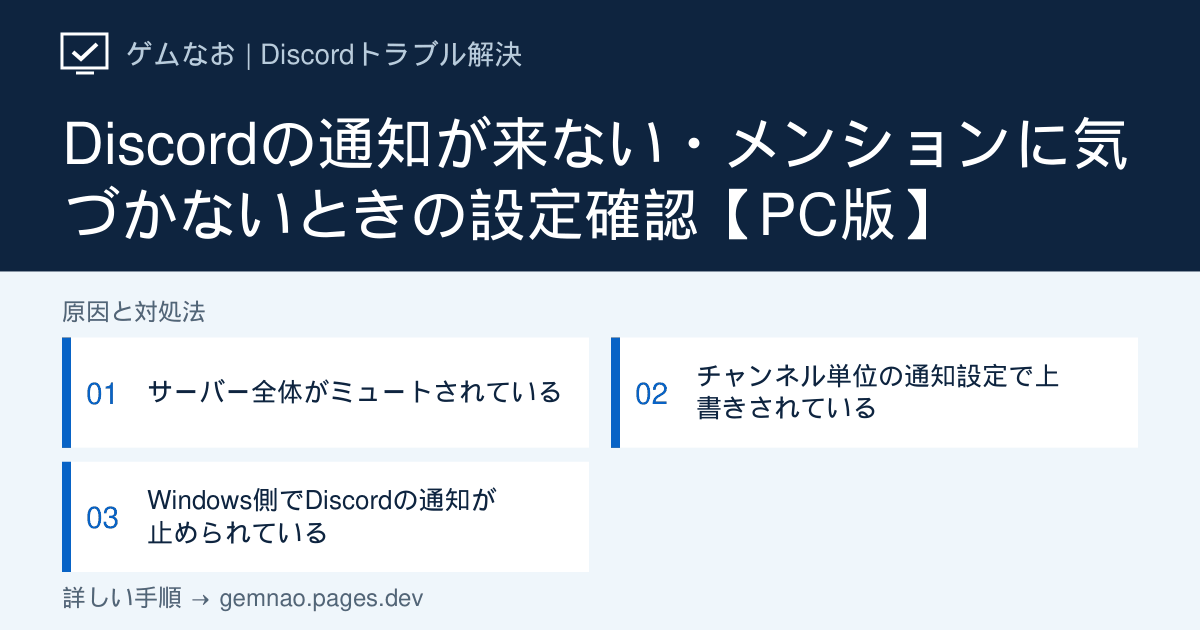
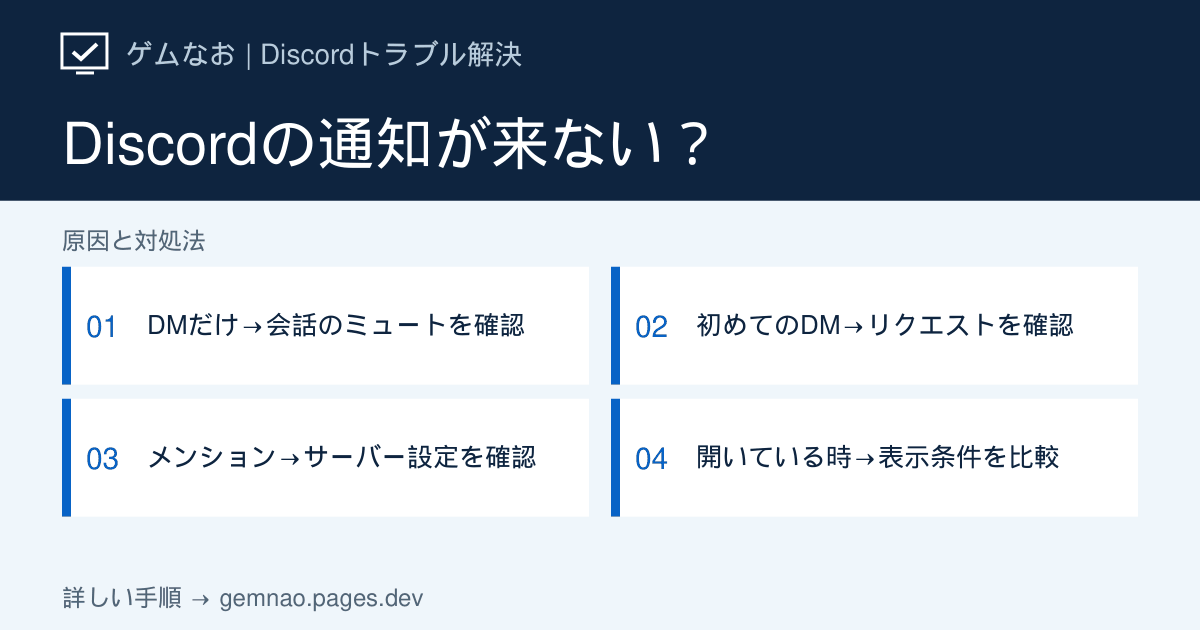
Improve Discord notification troubleshooting by message type

diff --git a/lib/discord-p0-articles.ts b/lib/discord-p0-articles.ts
@@ -723,80 +723,177 @@ export const discordP0Articles: DiscordArticle[] = [
     slug: 'notifications-not-working',
     category: 'launch',
     title:
-      'Discordの通知が来ない・メンションに気づかないときの設定確認【PC版】',
+      'Discordの通知が来ない原因と直し方｜DM・メンション・開いている時で切り分け【PC版】',
     shortTitle: '通知が来ない',
     seoTitle:
-      'Discordの通知が来ない・メンションに気づかないときの設定確認【PC版】',
+      'Discordの通知が来ない原因と直し方｜DMだけ・開いている時だけ【PC版】',
     metaDescription:
-      'Discordの通知が来ない、メンション通知が表示されない場合の確認方法。サーバーのミュート、通知レベル、チャンネルごとの上書き、Windows通知を順に確認します。',
+      'DiscordのDMだけ通知が来ない、メンションだけ出ない、アプリを開いている間だけポップアップが出ない場合を判定表で切り分け。DMのミュート、リクエスト、取り込み中・配信モード、Windowsのバナー設定を確認。',
     symptom:
-      'Discordにメッセージやメンションは届いているのにデスクトップ通知が出ない、または特定のサーバー・チャンネルだけ通知されない場合の手順です。',
-    target: 'Windows版 Discordデスクトップアプリ',
+      'DMは会話欄に届いているのに通知が出ない、知らない相手のDMだけ見つからない、サーバーのメンションだけ来ない、Discordを開いている間だけ通知が表示されない場合の手順です。',
+    target: 'Windows 11／10版 Discordデスクトップアプリの画面右下の通知',
     conclusion:
-      '特定のサーバーだけ通知が来ない場合は、そのサーバーのミュート、通知レベル、チャンネルごとの通知上書きを順に確認します。全体で来ない場合はWindowsの通知設定も確認してください。',
+      '最初に「メッセージが届かない」のか「届くが画面に通知が出ない」のかを分けます。DMだけなら会話のミュート・無視・メッセージリクエスト、メンションだけならサーバーとチャンネルの設定を確認。開いている間だけ出ないなら、同じ会話を表示中と別の画面を表示中で比較し、取り込み中・配信モード・Windows通知を確認します。',
     quickFixes: [
-      '対象サーバーがミュートされていないか確認する',
-      'サーバーの通知レベルとチャンネルごとの通知上書きを確認する',
-      'WindowsでDiscordの通知が許可されているか確認する',
+      '知人にテスト用DMを送ってもらい、会話には届くか・画面に通知が出るかを別々に確認する',
+      'Discordを開いた状態で別の会話を表示し、次に最小化して、同じ相手からのDMで結果を比べる',
+      'DM／サーバーのメンション／通常投稿のうち、通知が欠ける種類から下の表で手順を選ぶ',
+    ],
+    diagnosisTitle: 'どの通知が、いつ出ない？ 種類・発生条件別の判定表',
+    diagnosisIntro:
+      '知人に実際のDMやメンションを送ってもらい、Discordの会話欄に届いたか、デスクトップに通知が出たかを分けて記録します。自分が送ったメッセージでは確認できません。',
+    showStatusCheck: false,
+    diagnosis: [
+      {
+        symptom: '特定の相手・グループDMだけ、メッセージは届くが通知なし',
+        check: 'そのDMを右クリックし「通知をミュート」の状態を確認。相手を「無視」していないか',
+        causeIndex: 1,
+      },
+      {
+        symptom: '知らない相手からのDMが会話一覧に見当たらない',
+        check: 'ホームの「メッセージリクエスト」と「スパム」に入っていないか',
+        causeIndex: 2,
+      },
+      {
+        symptom: 'DMは通知されるが、特定サーバー・チャンネルの投稿だけ出ない',
+        check: 'サーバーの通知レベルと、チャンネル／カテゴリの通知上書きを比較',
+        causeIndex: 3,
+      },
+      {
+        symptom: '@メンションだけ届かない／ロール・@everyoneだけ違う',
+        check: '対象チャンネルがミュートか。ロール・@everyone抑制がオンか',
+        causeIndex: 3,
+      },
+      {
+        symptom: 'Discordを開いて同じ会話を見ている時だけ通知が出ない',
+        check: '別の会話を表示中と、Discordを最小化した時にも同じDMで比べる',
+        causeIndex: 4,
+      },
+      {
+        symptom: 'Discordの起動中だけ、DMもサーバーも通知が出ない',
+        check: 'ステータスが「取り込み中」か、配信モードの「通知の無効化」がオンか',
+        causeIndex: 4,
+      },
+      {
+        symptom: '通知音・未読はあるのに右下の通知だけ出ない／ゲーム中だけ出ない',
+        check: 'Discord内の通知、WindowsのDiscord通知バナー、「応答不可」の自動設定を確認',
+        causeIndex: 5,
+      },
     ],
     causes: [
       {
-        title: 'サーバー全体がミュートされている',
+        title: 'DMだけ届かないなら、会話ごとのミュートと「無視」を調べる',
         description:
-          'サーバーをミュートすると、そのサーバー内のチャンネル通知がまとめて抑制されます。',
+          'サーバー通知設定を変更しても、特定の人・グループDMの通知には直接効きません。まず「会話に届くがポップアップがない」状態か確認します。',
         actions: [
-          '対象サーバー名を右クリックする',
-          '「通知設定」を開く',
-          'サーバー全体のミュート状態を確認する',
-          '必要な通知レベルへ変更してテストする',
+          'ホームのDM一覧から、通知されない会話を開く。新しいメッセージが実際に届いているか確認する',
+          'その会話名を右クリックし、「通知をミュート」の状態を確認する。グループDMも個別に設定されるため、対象の会話だけ見直す',
+          '特定のユーザーだけならプロフィールや「ユーザー設定」→「コンテンツ＆ソーシャル」で「無視したアカウント」に含まれていないか確認する。必要な相手なら無視を解除して試す',
+          'Discordの通知音がほかでは鳴るのにDMだけ鳴らない場合も、同じ会話のミュートとDiscordの「通知」内の音設定を区別して見る',
+          '会話を表示したままのテストだけで判断せず、別の会話へ移ってから同じ相手にもう一度DMを送ってもらう',
         ],
+        note: '知人からのDMを無視・ミュートしている状態なら、Windows全体の通知許可を切り替えてもその会話の問題は解消しません。',
       },
       {
-        title: 'チャンネル単位の通知設定で上書きされている',
+        title: '初めての相手のDMが見当たらないなら、リクエストを探す',
         description:
-          'サーバー設定が有効でも、個別チャンネルが「通知なし」やミュートに上書きされている場合があります。',
+          'Discord公式によると、フレンド以外からのDMは通常のDM一覧とは別のメッセージリクエストやスパムへ振り分けられる場合があります。',
         actions: [
-          '対象サーバーの通知設定を開く',
-          '通知設定の上書き一覧を確認する',
-          '該当チャンネルの設定を確認する',
-          '「すべて」または「メンション」など必要な設定へ変更する',
+          'Discordの左上「ホーム」を開き、DM付近に「メッセージリクエスト」が表示されていないか確認する。保留中のリクエストがある時だけタブが出る場合がある',
+          '「メッセージリクエスト」内の「スパム」も確認し、相手のアカウントを見てから承認・返信するか判断する',
+          'リクエストになく、相手側でも送れていない場合は「ユーザー設定」→「コンテンツ＆ソーシャル」のDM許可設定や、相手との共通サーバー側のプライバシー設定を確認する',
+          '既に会話内にメッセージが届いているなら、リクエストではなく原因1または原因4へ進む',
         ],
+        note: 'リクエストのバッジと、Windows画面右下のポップアップ通知は別です。見知らぬ相手からのDMを受けるためにプライバシー設定を無理に緩める必要はありません。',
       },
       {
-        title: 'Windows側でDiscordの通知が止められている',
+        title: 'サーバー投稿・メンションだけなら、通知の種類を見比べる',
         description:
-          'すべてのサーバーで通知が出ない場合は、OS側の通知許可や集中モードを切り分けます。',
+          'Discord公式の通知設定では、サーバー、カテゴリ／チャンネルの通知上書き、ロール・@everyoneの抑制を別々に指定できます。通常投稿とメンションでは結果が変わります。',
         actions: [
-          'Windowsの「設定」から「システム」→「通知」を開く',
-          'Discordの通知が許可されているか確認する',
-          '集中モードまたは通知を抑制する設定が有効でないか確認する',
-          'Discordを完全終了して起動し直し、通知をテストする',
+          '対象サーバー名を右クリック→「通知設定」を開き、サーバー全体の通知オフと通知レベルを確認する。通常投稿を受けたい場合は「メンションのみ」になっていないか見る',
+          '同じ画面の「通知設定の上書き」で該当チャンネルとカテゴリを確認する。「メンション」は通常投稿を通知しない設定、「なし」や「ミュート」はさらに通知を抑える設定として区別する',
+          '@ロールと@everyone／@hereが来ない場合は、サーバーの各メンションを抑制する設定がオンか確認する。通常投稿・個人宛てメンションとは別々にテストする',
+          '変更後にほかのユーザーから対象チャンネルへ通常投稿と、自分宛ての実際の@メンションを送ってもらい、どちらが表示されるか比べる',
         ],
+        note: 'Discord公式はサーバー全体のミュート時も@everyoneメンションには例外があると説明しています。「全通知が必ず消える」と決めつけず、通知の種類で比較してください。',
+      },
+      {
+        title: 'Discordを開いている時だけなら、表示中の会話と状態を比較',
+        description:
+          '同じ会話を画面に表示中と、別の画面を表示中を比べます。アプリを開いていることだけで「故障」と判断せず、取り込み中・配信モードによる抑制も分けます。',
+        actions: [
+          'ステータスを「オンライン」にして、知人にDMを送ってもらう。対象DMを表示したままの時と、別のサーバー・会話へ移った時に、画面への通知と未読の付き方を比べる',
+          '次にDiscordを最小化する（タスクトレイへ格納されても、完全終了はしない）。同じ相手にもう一度送ってもらい、最小化中にも通知が出ないか確認する',
+          '別の会話や最小化中も出ない場合、左下の自分のアイコンから「取り込み中」が選ばれていないか確認する。Discord公式は取り込み中にデスクトップ通知をミュートすると案内している',
+          'OBSなどを起動中なら、Discordの歯車→「配信モード」で有効状態と「通知の無効化」を確認する。現在の値を控えてから一時的に切り替え、もう一度同じDMで比較する',
+          '同じ会話を表示中だけポップアップがないが、別会話や最小化中は出る場合は、その表示条件を記録する。アプリ全体・Windows全体の故障として再インストールへ進まない',
+        ],
+        note: 'ここで比較しているのはWindowsデスクトップ版です。モバイル版の「画面を開いている間は通知しない」という公式説明を、そのままPC版の仕様として扱いません。',
+      },
+      {
+        title: '全部の通知が出ない・ゲーム中だけ出ないなら、DiscordとWindowsを確認',
+        description:
+          '通知のバッジ・音・画面右下のバナーを区別します。Windowsにはアプリ別の通知許可とバナー表示、「応答不可」があります。',
+        actions: [
+          'Discord左下の歯車→「通知」を開き、デスクトップ通知が無効になっていないか確認する。音だけが出ない場合はメッセージ音の設定も別に見る',
+          'Windows 11は「設定」→「システム」→「通知」を開き、全体と「アプリやその他の送信者」にDiscordがあれば通知・「通知バナーを表示する」がオンか確認する',
+          'Windows 11の「応答不可」と自動でオンになる条件を確認する。ゲームの全画面中だけ通知が隠れるなら、通常のデスクトップ表示中と比較する。Windows 10は「集中モード」など対応する表示抑制の項目を確認する',
+          'Windowsキー＋Nで通知センターを開き、Discordの通知が残っているか確認する。センターにはあるのにバナーだけない場合は、Windowsの表示方法から見直す',
+          'Discord自体が起動していない場合は起動した状態でテストする。通知音・未読も消えるならDiscord内の設定に戻り、音や未読はあるのに右下だけ出ないならWindows側の表示条件を調べる',
+        ],
+        note: 'Discordの表示方法は配布形態やWindowsの設定によって異なります。アプリ別一覧にDiscordが出ない場合は、まずDiscord内の設定・ステータスを確認してください。',
       },
     ],
     ifNotFixed:
-      'DiscordとWindowsの設定が正しい場合は、別のサーバー・DMでも通知されないか確認してください。発生する通知種別、サーバー、Windowsの通知設定を記録してDiscordサポートへ連絡します。',
+      'DiscordとWindowsの設定を確認しても再現する場合は、DM／通常投稿／メンションの種類、相手またはサーバー、Discordのウィンドウが表示中か最小化中か、通知音・未読・右下のバナーの結果を記録してください。Discordアプリを更新・再起動して同じ条件で再試験し、結果を添えてDiscordサポートへ相談します。',
     faqs: [
       {
-        question: '特定のサーバーだけ通知が来ません',
+        question: 'DMだけ通知が来ないのに、サーバーの通知設定を変更すべきですか？',
         answer:
-          'そのサーバーのミュート状態、通知レベル、チャンネルごとの通知上書きを順に確認してください。',
+          'DMの会話に届いているなら、まずその会話のミュートと相手を「無視」していないか確認してください。初めての相手で会話にも表示されないなら、ホームの「メッセージリクエスト」や「スパム」を先に確認します。',
       },
       {
-        question: 'メンションだけ通知を受ける設定はできますか？',
+        question: 'サーバーをミュートすると、@everyoneも必ず消えますか？',
         answer:
-          'Discordのサーバー通知設定では、メンションのみを受ける通知レベルを選べます。チャンネル単位の上書きもあわせて確認してください。',
+          'Discord公式はサーバーのミュート中でも@everyoneの通知を受ける例外を案内しています。@everyoneと@hereを抑制する設定、ロールメンションを抑制する設定、チャンネル単位のミュートを分けて確認してください。',
       },
       {
         question: 'Discordを開いている間だけ通知が出ません',
         answer:
-          '通知の表示条件やWindows側の通知設定が影響する場合があります。DMとサーバー通知を分けてテストし、どの状態で出ないか切り分けてください。',
+          '同じDMを表示中、別の会話を表示中、Discordを最小化中の3条件で知人のDMを比べてください。別の会話でも出ないなら「取り込み中」と配信モードの通知抑制を確認し、未読と音はあるのに右下だけ出なければWindowsのバナー設定を見ます。',
+      },
+      {
+        question: 'DMの内容は表示されないが未読のバッジだけ付きます',
+        answer:
+          '知らない相手からなら、ホームの「メッセージリクエスト」内に保留中のDMがないか確認してください。Discord公式によると、リクエストは通常のDM一覧とは別に表示され、アプリには通知バッジが付く場合があります。',
       },
     ],
-    sources: [official('215253258', '通知設定101')],
+    sources: [
+      official('215253258', 'サーバー・チャンネルの通知設定101'),
+      official('223657667', 'グループDMの通知をミュートする方法'),
+      official('227779547', '取り込み中のステータスと通知'),
+      official('218485407', '配信モードによる通知の抑制'),
+      official('28084948873623', '無視したユーザーのDM通知'),
+      {
+        label: 'Discord公式：メッセージリクエストとスパムの確認（英語）',
+        url: 'https://support.discord.com/hc/en-us/articles/7924992471191-Message-Requests',
+      },
+      {
+        label: 'Microsoft公式：Windowsの通知バナーと応答不可',
+        url: 'https://support.microsoft.com/ja-jp/windows/experience/notifications-and-do-not-disturb-in-windows',
+      },
+    ],
     related: ['overlay-not-showing', 'loading-stuck', 'not-opening'],
-    checkedAt: '2026-09-17',
+    checkedAt: '2026-09-28',
     status: 'verified',
+    ogTitle: 'Discordの通知が来ない？',
+    ogSteps: [
+      'DMだけ→会話のミュートを確認',
+      '初めてのDM→リクエストを確認',
+      'メンション→サーバー設定を確認',
+      '開いている時→表示条件を比較',
+    ],
   },
   {
     slug: 'screen-share-black-screen',

diff --git a/lib/og-image-manifest.ts b/lib/og-image-manifest.ts
@@ -22,7 +22,7 @@ export const ogImageManifest: Record<string, string> = {
   "/discord/mic-volume-low": "9eec1c00",
   "/discord/no-route": "7419f17d",
   "/discord/not-opening": "6ef5ed70",
-  "/discord/notifications-not-working": "1ed1422d",
+  "/discord/notifications-not-working": "4ab41adc",
   "/discord/overlay-not-showing": "7aff7383",
   "/discord/phone-verification-error": "7266d12e",
   "/discord/screen-share-black-screen": "27a28c0d",
